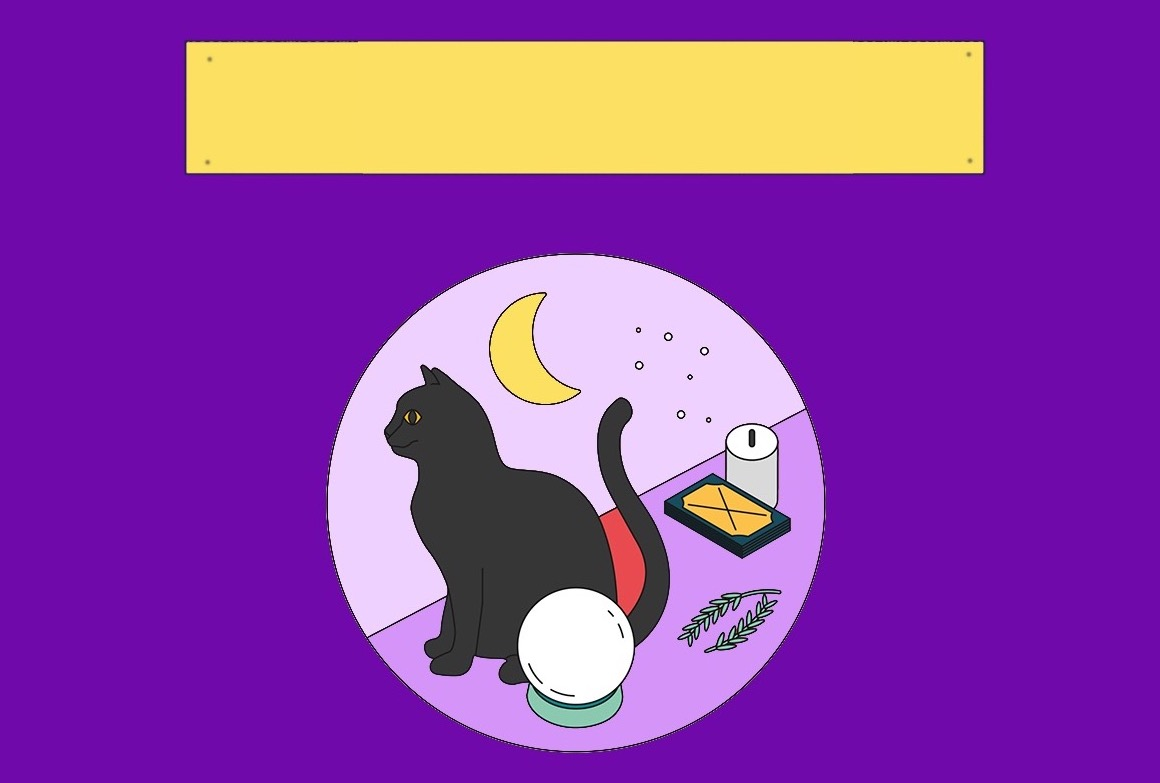
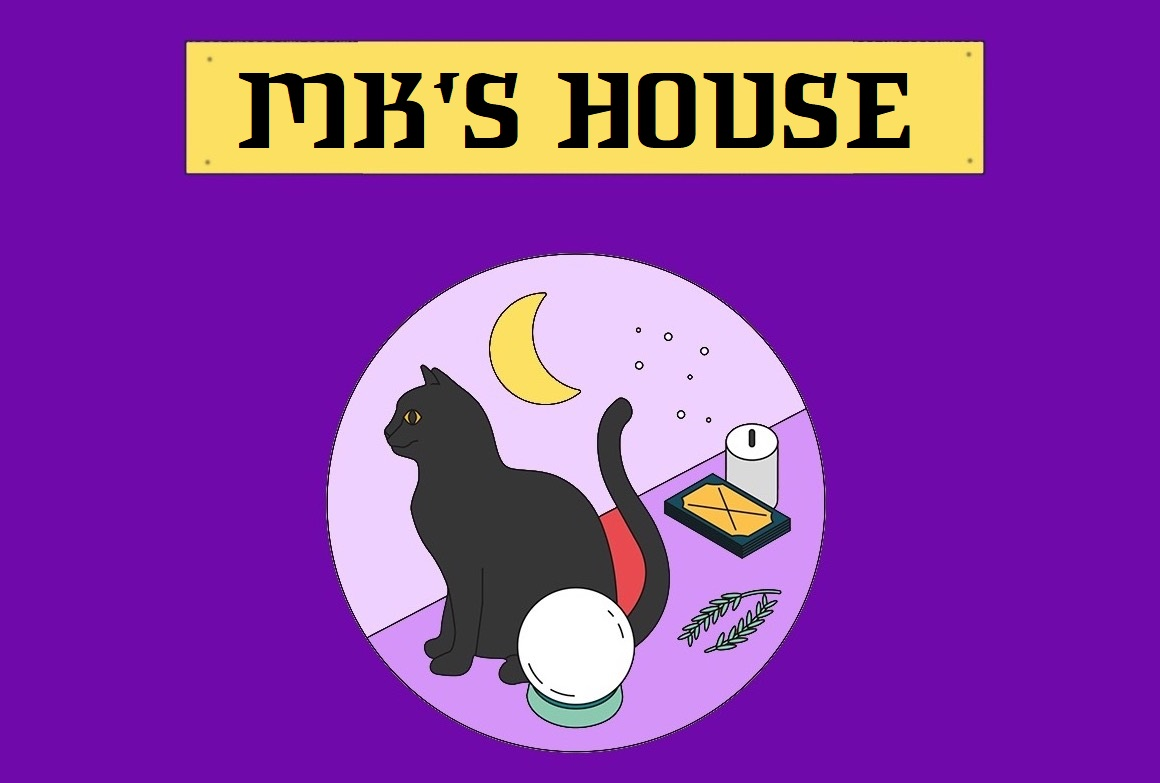
Add files via upload

Changed region(s): [[0.1862, 0.092, 0.8069, 0.2146]]

diff --git a/main_pic.html b/main_pic.html
@@ -5,7 +5,7 @@
        <style>
            body{ 
                
-               background-image: url("2.jpg");
+/*               background-image: url("2.jpg");*/
                background-repeat: no-repeat;
                background-size:contain;
                background-position: center;
@@ -23,26 +23,8 @@
                text-decoration: none;
            }
            a{text-decoration: none;}
-/*
-  animation-duration: 3s;
-  animation-name: slidein;
-*/
-
-/*
-
-@keyframes slidein {
-  from {
-    margin-left: 100%;
-    width: 300%
-  }
-
-  to {
-    margin-left: 0%;
-    width: 100%;
-  }
-}
-           
-*/
+           img{width: 70% ; height: auto;display: block; margin: 0px auto;}
+             
 
            </style>
            
@@ -52,6 +34,6 @@
     <body>
     
     
-        <a href="intro_home.html"><p>WELCOME TO MK'S HOUSE</p></a>
+        <a href="intro_home.html"><img src="2.jpg" alt=""></a>
     </body>
 </html>
